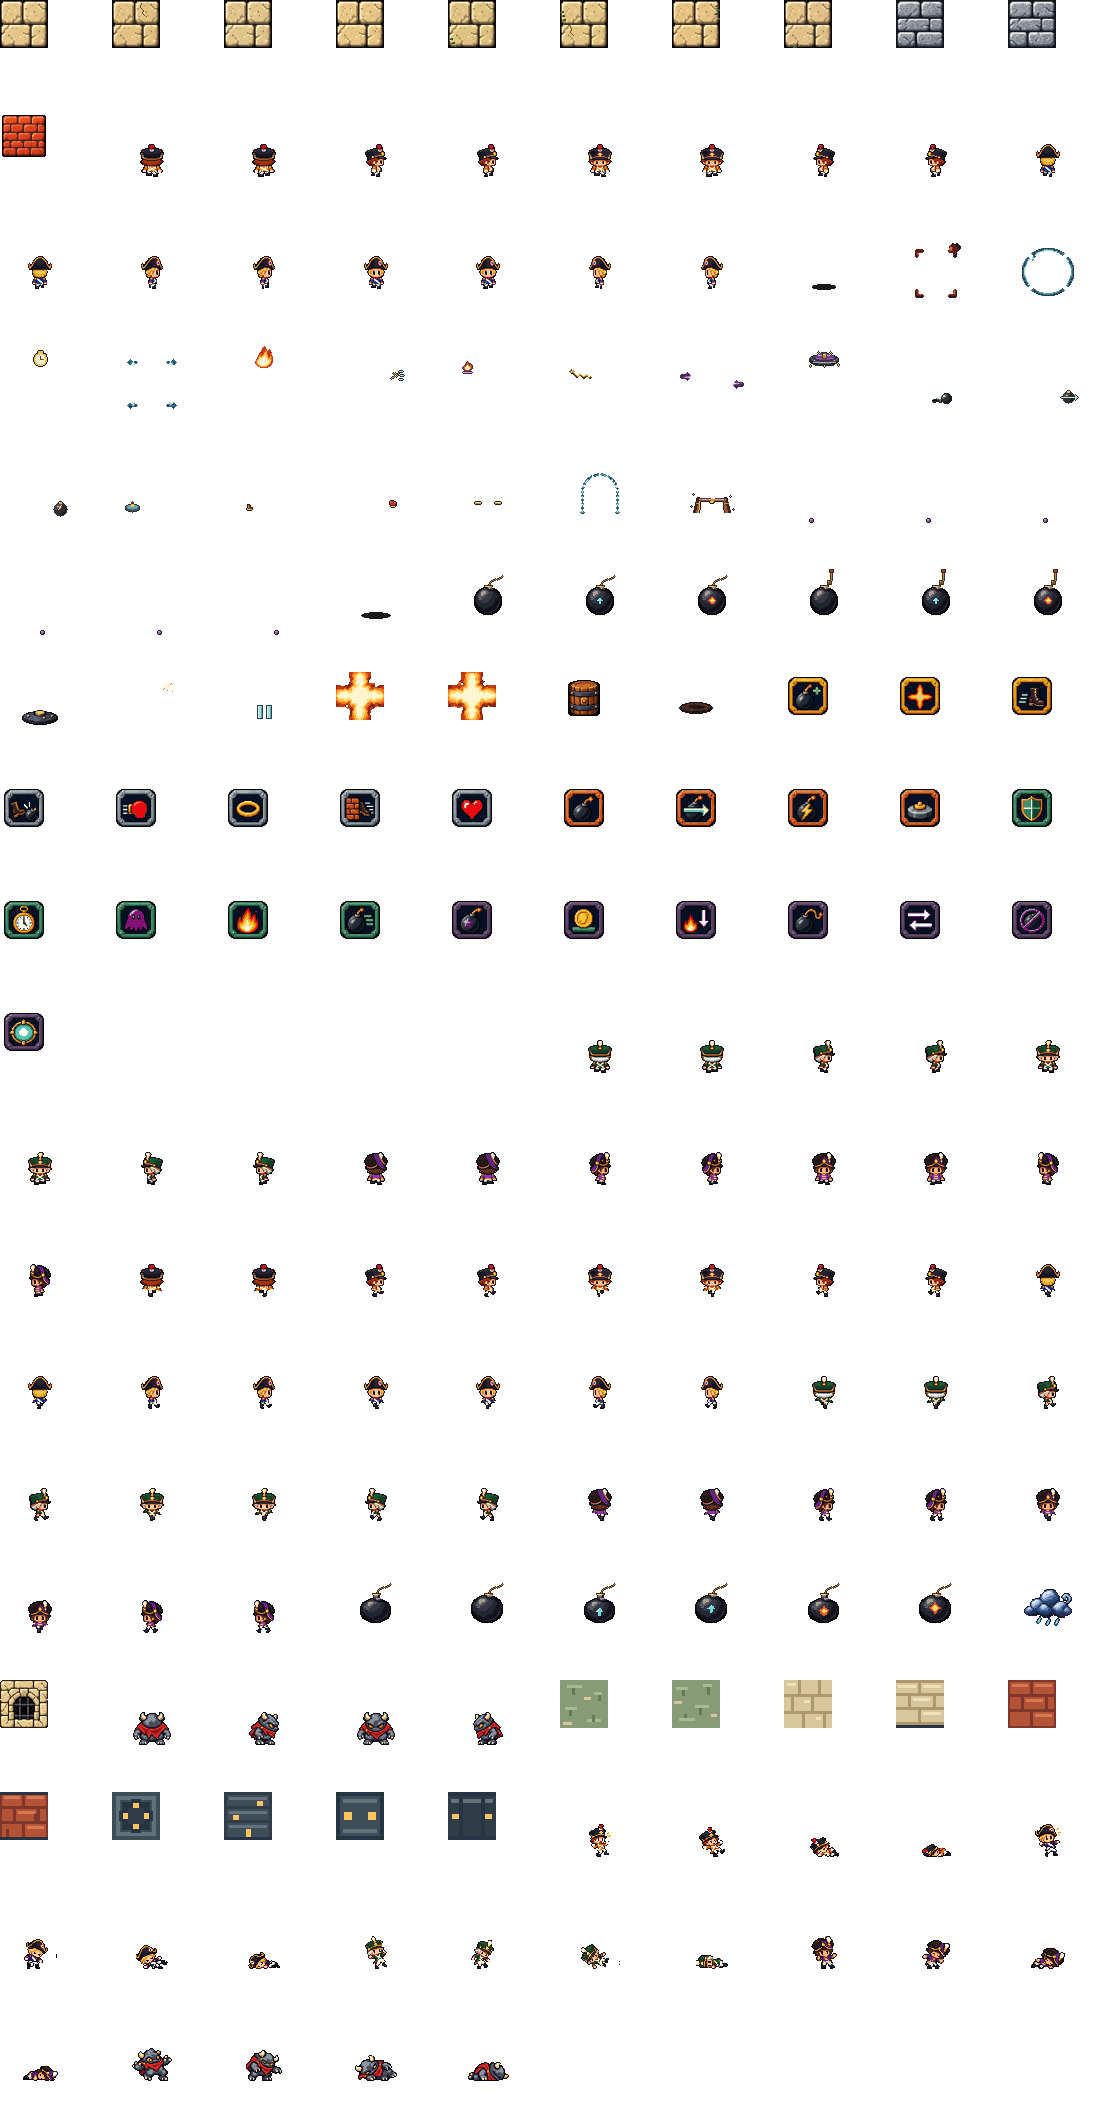
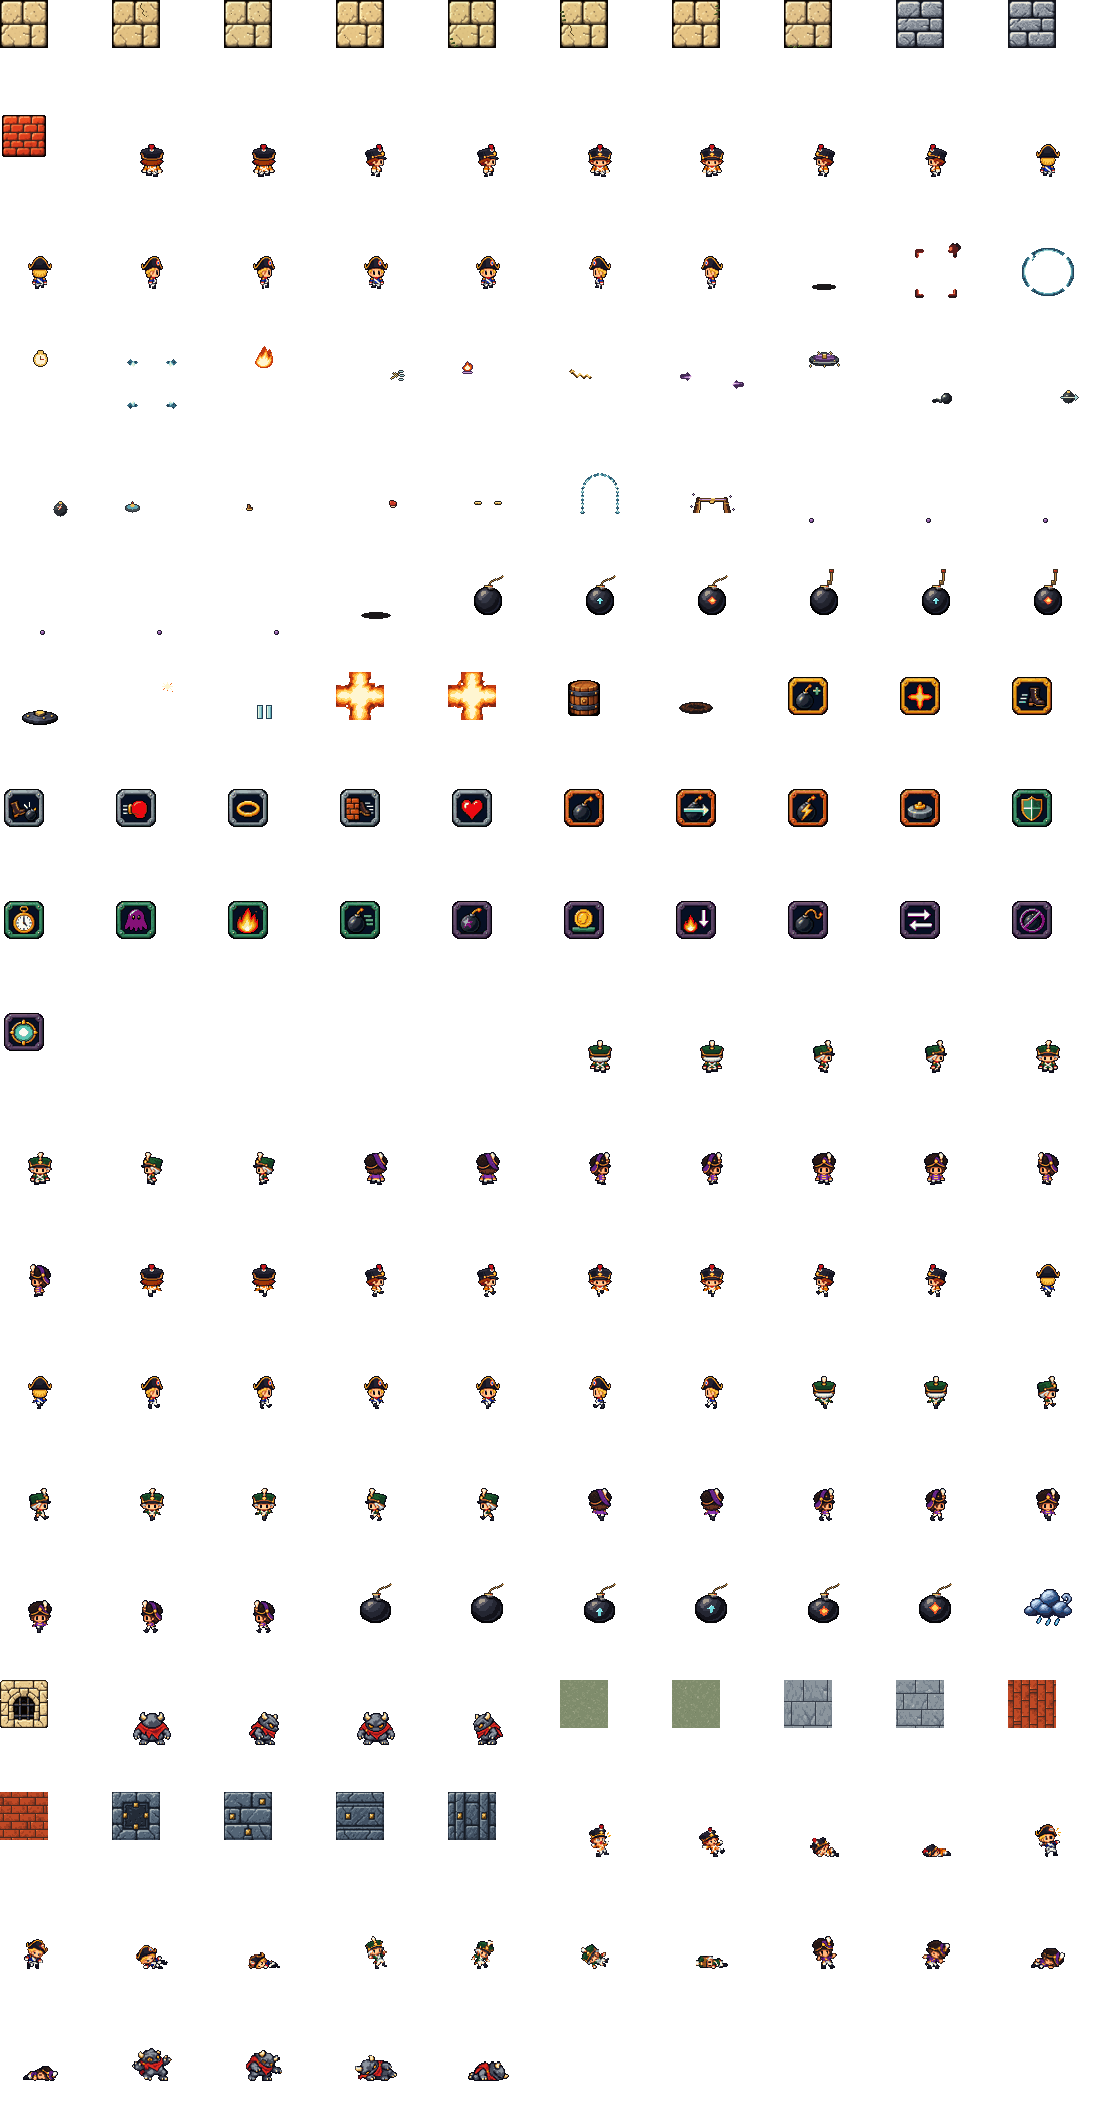
feat: polished arena sprite sheet (v1.1.3) (#293)
* feat(art): adopt polished arena materials and death poses (v1.1.3)

* docs: record polished artwork acceptance and artist bundle

diff --git a/docs/releases.md b/docs/releases.md
@@ -97,47 +97,54 @@ retain the previous immutable image reference for rollback. The runtime stage in
 rolling Debian package updates, so a later build may resolve newer packages and is not expected to
 be byte-identical; treat it as a new candidate with new evidence rather than reusing acceptance.
 
-## v1.1.2 — 2026-10-31
+## v1.1.3 — 2026-10-31
 
-Keep knockout sprites readable during ordinary explosions and persistent Oil fire. The death
-body now uses the minimum layer above world hazard overlays; its grounded shadow stays
-unchanged and higher actor status cues remain visible. Artwork, animation timing and gameplay
-are unchanged. The [v1.1.1 artist bundle](https://github.com/liveweird/grenadiers/releases/download/v1.1.1/grenadiers-artist-v1.1.1.zip)
-remains current, including the wall maps and all twenty death poses.
+Adopt the owner-supplied polished arena PNG directly, without resizing, recoloring or metadata
+changes. It refines all ten 3D material maps and lightly retouches twenty death poses. All
+64 directional player poses, four mob directions and other sprite drawings remain unchanged.
+The sheet retains 1120×2128 RGBA dimensions, 185 assigned slots, anchors and animation contracts.
+The redundant root `arena-napoleonic-3d-polished.png` is removed only after verifying its adopted
+copy is byte-identical.
+
+Use the [updated artist bundle](https://github.com/liveweird/grenadiers/releases/download/v1.1.3/grenadiers-artist-v1.1.3.zip)
+for the current PNG/JSON, labelled guides, slices and actual 3D preview. The canonical source
+remains [assets/art/arena-source.png](../assets/art/arena-source.png).
 
 ### Verification
 
-Accepted source: `dbf17457781ace59fce4ba7ac18cf48f70b5db67`,
-[PR #292](https://github.com/liveweird/grenadiers/pull/292). Independent review confirms the
-transparent-depth ordering cause and the minimal replacement layer. The pre-fix native
-regression retains only 124/889 death-mask pixels (13.95%). The correction passes ≥75% body
-retention for both ordinary and burning-Oil flames, while separate comparisons prove the
-surrounding hazard is still visible.
+Accepted source: `e005b4228ac0f6bf76ccb4a6af794efc9e57f5c8`,
+[PR #293](https://github.com/liveweird/grenadiers/pull/293). Independent decoded-pixel review
+finds no structural defects: binary alpha, clean gutters/reservations, compatible death
+palettes and ground alignment, four distinct poses per death family. Exactly 30 frames change;
+151 baseline frames and all pixels outside allowed rectangles remain unchanged.
 
-- Fresh focused Three/client tests: 57 pass. Full native graphics: 11 executed cases pass;
-  three intentional cross-project skips select the appropriate desktop/reduced-motion cases.
-  Lint, Knip, types, repository/tooling, static E2E and 103 scenario mappings pass.
-- Fresh production build: 394,348/400,000 gzip JS bytes; 15,430/20,000 CSS bytes. All five
-  container web files equal the verified build. The sole production behavior change is a
-  death-body draw-order value, exercised by the focused tests and native red/green proof.
-- Reuse [v1.1.1](history/releases.md#v111--2026-10-31) full 7,290-test/coverage acceptance and
-  unchanged artwork, dependencies and Rust acceptance. Existing floors remain intact. Rust
-  package metadata changes only; the exact image supplies a fresh Linux release build and
-  runtime checks. Duplicate unchanged Rust CI is deliberately cancelled.
-- Exact-image Compose acceptance passes four duel/auth/CPU cases (37.7s) and disabled
-  diagnostics (11.3s). Kubernetes passes duel/auth (23.7s), configured probes/resources,
-  restricted runtime and zero restarts. Owned stacks and namespace are removed.
-- Pinned Trivy 0.74 finds zero fixable HIGH/CRITICAL vulnerabilities in the exact accepted image.
-  Dependency/security inputs are unchanged from the accepted v1.1.1 checks.
+- Raw input exports through the native validator without adaptation. Focused atlas/Three/UI
+  tests pass: 101 tests in 24 files. Artist workbench passes ten cases. Native 3D passes eleven
+  cases, with three intentional project skips, including all death frames, reduced motion,
+  expiry, flame overlap, board sizes, context recovery and removal privacy.
+- Fresh production build passes at 394,351/400,000 gzip JS bytes and 15,430/20,000 CSS bytes.
+  Runtime pack remains 2040×704 / 181 frames / 5,744,640 RGBA bytes. All five container web
+  files equal the verified build. Exact canonical file bytes equal the supplied input.
+- Exact-image Compose passes four duel/auth/CPU cases (36.8s), disabled diagnostics (10.3s)
+  and a native four-player visual smoke with zero page errors. Kubernetes duel/auth passes
+  (23.6s), alongside runtime restrictions, configured probes/resources and zero restarts.
+  Owned stacks and namespace are removed. Pinned Trivy 0.74 finds zero fixable HIGH/CRITICAL.
+- Application/rules/contracts/dependencies and Kubernetes configuration are unchanged. Reuse
+  the recorded full web/coverage/security/Rust and E2E-static acceptance; no floors or assertions
+  are weakened. Only duplicate unchanged Rust CI is cancelled. Cargo product versions change
+  to 1.1.3; the image supplies a fresh Linux release build and runtime acceptance.
 
 ### Operation
 
-Localhost:8085 runs accepted image
-`sha256:aa2a199cddf9e8369a4058aa3e7782ad267f4d1f1ef53da98fd3b6e118a2f90d`,
-labelled 1.1.2/source dbf17457. The local CPU-diagnostic flag remains enabled; base deployments
-still default to disabled. Promotion verifies image/runtime restrictions, health/readiness,
-CSP/cache and served bytes. Immutable v1.1.1 remains available for rollback. Refresh the browser
-and create a new match after restart.
+Localhost:8085 runs exact accepted image
+`sha256:0c553e5c95b1a558608e8b9fcab2cfe1cb1d8dda510dba6ce1f3a37e3f73cc95`,
+labelled 1.1.3/source e005b422. The operator keeps CPU diagnostics enabled; base deployments
+default to disabled. Promotion checks image/runtime identity, health/readiness, CSP/cache and
+served bytes. Immutable v1.1.2 remains available for rollback. Refresh old tabs and create a
+new match after restart to see the polished material maps.
+
+<a id="v112--2026-10-31"></a>
+The [v1.1.2 record](history/releases.md#v112--2026-10-31) is preserved in release history.
 
 <a id="v111--2026-10-31"></a>
 The [v1.1.1 record](history/releases.md#v111--2026-10-31) is preserved in release history.

diff --git a/docs/history/releases.md b/docs/history/releases.md
@@ -4,6 +4,48 @@ This archive preserves the older release records originally maintained in
 [`docs/releases.md`](../releases.md). Records remain in their original order; the current
 release procedure and current release record stay in the [release guide](../releases.md).
 
+## v1.1.2 — 2026-10-31
+
+Keep knockout sprites readable during ordinary explosions and persistent Oil fire. The death
+body now uses the minimum layer above world hazard overlays; its grounded shadow stays
+unchanged and higher actor status cues remain visible. Artwork, animation timing and gameplay
+are unchanged. The [v1.1.1 artist bundle](https://github.com/liveweird/grenadiers/releases/download/v1.1.1/grenadiers-artist-v1.1.1.zip)
+remains current, including the wall maps and all twenty death poses.
+
+### Verification
+
+Accepted source: `dbf17457781ace59fce4ba7ac18cf48f70b5db67`,
+[PR #292](https://github.com/liveweird/grenadiers/pull/292). Independent review confirms the
+transparent-depth ordering cause and the minimal replacement layer. The pre-fix native
+regression retains only 124/889 death-mask pixels (13.95%). The correction passes ≥75% body
+retention for both ordinary and burning-Oil flames, while separate comparisons prove the
+surrounding hazard is still visible.
+
+- Fresh focused Three/client tests: 57 pass. Full native graphics: 11 executed cases pass;
+  three intentional cross-project skips select the appropriate desktop/reduced-motion cases.
+  Lint, Knip, types, repository/tooling, static E2E and 103 scenario mappings pass.
+- Fresh production build: 394,348/400,000 gzip JS bytes; 15,430/20,000 CSS bytes. All five
+  container web files equal the verified build. The sole production behavior change is a
+  death-body draw-order value, exercised by the focused tests and native red/green proof.
+- Reuse [v1.1.1](releases.md#v111--2026-10-31) full 7,290-test/coverage acceptance and
+  unchanged artwork, dependencies and Rust acceptance. Existing floors remain intact. Rust
+  package metadata changes only; the exact image supplies a fresh Linux release build and
+  runtime checks. Duplicate unchanged Rust CI is deliberately cancelled.
+- Exact-image Compose acceptance passes four duel/auth/CPU cases (37.7s) and disabled
+  diagnostics (11.3s). Kubernetes passes duel/auth (23.7s), configured probes/resources,
+  restricted runtime and zero restarts. Owned stacks and namespace are removed.
+- Pinned Trivy 0.74 finds zero fixable HIGH/CRITICAL vulnerabilities in the exact accepted image.
+  Dependency/security inputs are unchanged from the accepted v1.1.1 checks.
+
+### Operation
+
+Localhost:8085 runs accepted image
+`sha256:aa2a199cddf9e8369a4058aa3e7782ad267f4d1f1ef53da98fd3b6e118a2f90d`,
+labelled 1.1.2/source dbf17457. The local CPU-diagnostic flag remains enabled; base deployments
+still default to disabled. Promotion verifies image/runtime restrictions, health/readiness,
+CSP/cache and served bytes. Immutable v1.1.1 remains available for rollback. Refresh the browser
+and create a new match after restart.
+
 ## v1.1.1 — 2026-10-31
 
 Add short, non-gory knockout animations for all four player uniforms and mobs. Each appearance

diff --git a/assets/art/README.md b/assets/art/README.md
@@ -119,6 +119,10 @@ produces the procedural reference; it does not reproduce or overwrite the adopte
 
 ## Provenance
 
+The owner-supplied polished 3D revision refines all ten material maps and the twenty death
+poses within their existing rectangles. Directional player/mob artwork and all other sprites
+remain unchanged. The PNG is adopted directly, without resizing, recoloring or metadata edits.
+
 The twenty death poses were generated with OpenAI's built-in `image_gen`, using the existing
 four uniforms and mob as identity references, then normalized with owner-authorized Canvas
 processing. They retain each appearance's palette and the shared ground anchor. Existing
@@ -192,8 +196,8 @@ The ten `material.*` slots are shared, artist-editable 48×48 maps for the Three
 - `material.lair.top` and `material.lair.side`;
 - `material.rim.top` and `material.rim.side`.
 
-They use opaque, hard-edged retro patterns based on sandstone `#d8c69d`, field green `#879b76`,
-brick `#b55336`, slate `#3e4e59`, flame gold `#ffc462` and ink `#263445`. The 3D renderer keeps
+Use opaque, hard-edged pixel patterns and deliberate shading. The current maps combine field
+green, gray stone, red brick and brass accents. The 3D renderer keeps
 the material color white so edits to these atlas rectangles remain the authoritative texture
 colors. Top and side maps are intentionally distinct; do not derive private recolored copies in
 renderer code.

diff --git a/README.md b/README.md
@@ -3,13 +3,13 @@
 A browser-based multiplayer game inspired by classic Bomberman/Dynablaster.
 Play two-to-four-seat human/CPU matches, a quick two-human duel, or a private solo match.
 
-**[v1.1.2 readable knockout animations through explosions](https://github.com/liveweird/grenadiers/releases/tag/v1.1.2).**
-All 22 requested item types shipped in v0.3.47. See the [release record](docs/releases.md#v112--2026-10-31)
+**[v1.1.3 polished arena artwork](https://github.com/liveweird/grenadiers/releases/tag/v1.1.3).**
+All 22 requested item types shipped in v0.3.47. See the [release record](docs/releases.md#v113--2026-10-31)
 for verification, the exact deployed image and rollback. Reload browser tabs after upgrading the paired server/web image.
 
 The [artist sprite-sheet handoff](assets/art/README.md) includes editable PNG/JSON, labelled
 guides, validated runtime export and a separate Pixi preview. Download the artist bundle from
-[v1.1.1 artist bundle](https://github.com/liveweird/grenadiers/releases/download/v1.1.1/grenadiers-artist-v1.1.1.zip).
+[v1.1.3 artist bundle](https://github.com/liveweird/grenadiers/releases/download/v1.1.3/grenadiers-artist-v1.1.3.zip).
 Gameplay now uses those canonical inputs; see the [renderer guide](docs/game/art-atlas.md).
 The current sheet is a Napoleonic redraw generated with ChatGPT; see its
 [provenance](assets/art/README.md#provenance).

diff --git a/CHANGELOG.md b/CHANGELOG.md
@@ -2,6 +2,11 @@
 
 ## [Unreleased]
 
+## 1.1.3 — 2026-10-31
+
+- Adopt the owner-supplied polished arena sheet: refined 3D surface maps and death poses,
+  preserving dimensions, anchors, animation contracts and directional character artwork.
+
 ## 1.1.2 — 2026-10-31
 
 - Keep knockout sprites readable over ordinary blast flames and burning Oil while preserving

diff --git a/docs/verification.md b/docs/verification.md
@@ -15,7 +15,7 @@ The complete record is preserved in the [verification history](history/verificat
 
 ## Latest release verification
 
-The canonical release record is [v1.1.2 release](releases.md#v112--2026-10-31).
+The canonical release record is [v1.1.3 release](releases.md#v113--2026-10-31).
 
 ## Historical fragment compatibility
 
